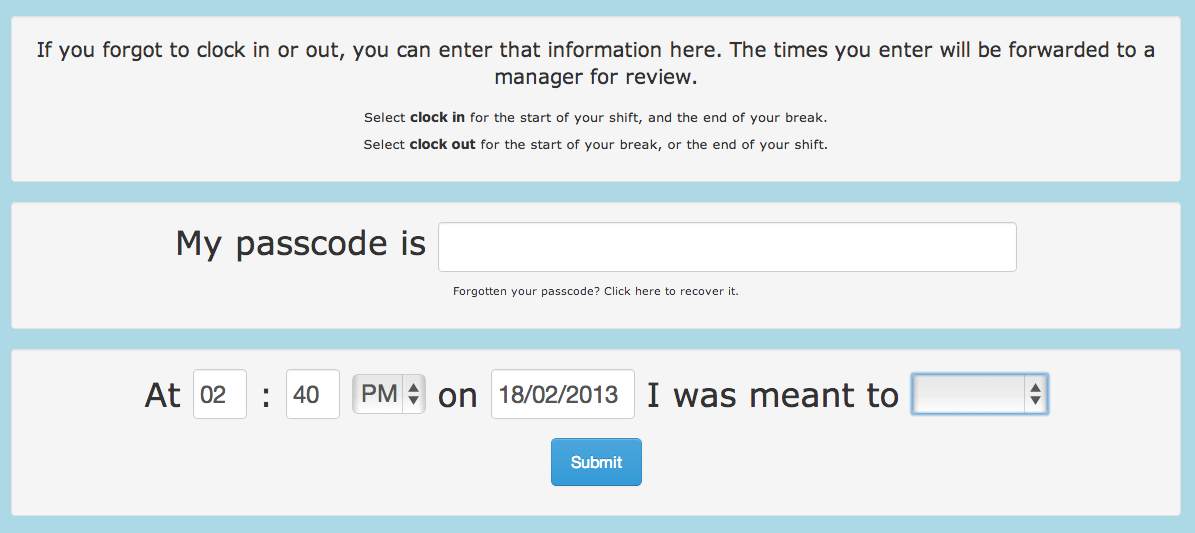
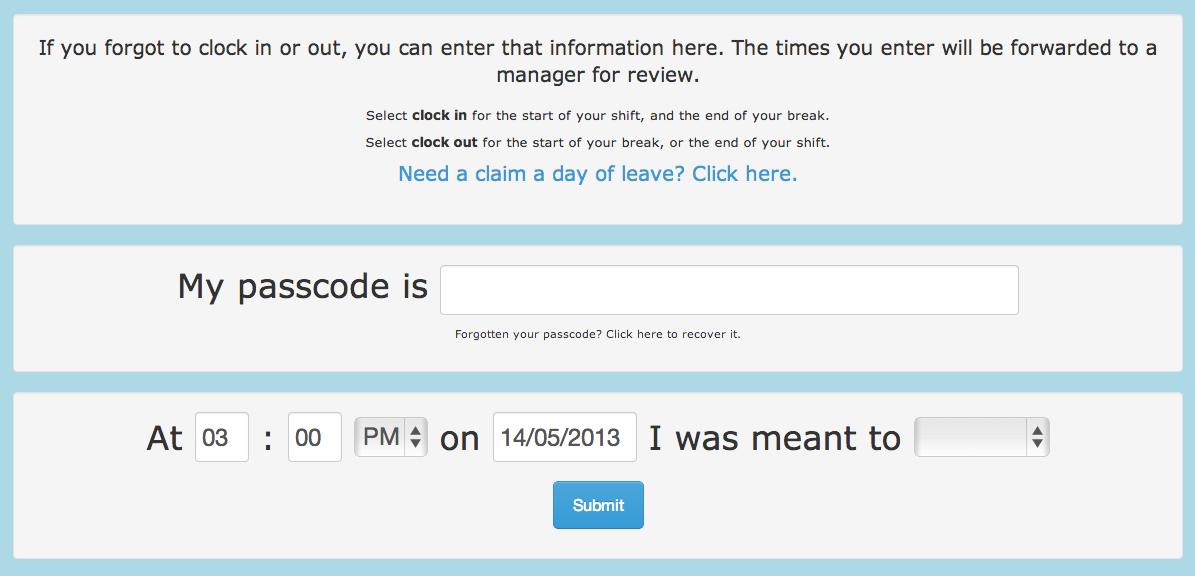
tracking staff leave

diff --git a/_posts/portals/2013-06-10-leave.md b/_posts/portals/2013-06-10-leave.md
@@ -1,0 +1,28 @@
+---
+layout: guide
+title: I Was Sick, What Do I Do?
+categories: ['portals']
+sort: 3
+alias: /leave
+---
+
+Couldn't make it to work? You'll want the sick leave to be recorded on your timesheet so your manager is away of it. Tracking your leave with PayAus is easy. To start, go to the [employee portal](../employee/):
+
+![The web portal](/img/portals/web_portal.png)
+
+Click the big link to *claim a day of leave*. You'll be redirected to the leave portal, which looks similar:
+
+![The leave portal](/img/portals/leave_portal.png)
+
+Enter in your passcode, the date, and the reason you couldn't make it to work. Click *Request Leave* and the portal will add this information to your timesheet automatically. Easy!
+
+The leave portal is hidden behind a randomly generated URL, which means you'll need to get a link to it so you can actually use it. You can get this link from anyone who is able to log in to [www.payaus.com](http://www.payaus.com). Once they (or you, if you are able to log in) are logged in to [payaus.com](http://www.payaus.com), go to the menu in the top right hand corner. You should see a link to the **Employee Clock-in Portal**. From that link, you can navigate to the leave portal.
+
+![The web portal in the site navigation](/img/portals/portal_nav.png)
+
+You may want to add the portal to your bookmarks in case you need to visit it again. How? That depends on your web browser, but these guides should help:
+
+* [Google Chrome](http://support.google.com/chrome/bin/answer.py?hl=en&answer=95739)
+* [Mozilla Firefox](http://support.mozilla.org/en-US/kb/use-bookmarks-to-save-and-organize-websites#w_how-do-i-create-a-bookmark)
+* [Internet Explorer](http://windows.microsoft.com/en-AU/internet-explorer/add-view-organize-favorites#ie=ie-10)
+* [Safari (on a Mac)](http://www.apple.com/findouthow/mac/#bookmark)

diff --git a/_posts/timesheets/2013-06-12-leave.md b/_posts/timesheets/2013-06-12-leave.md
@@ -1,0 +1,19 @@
+---
+layout: guide
+title: Tracking Staff Leave
+categories: ['timesheets']
+sort: 6
+---
+
+PayAus makes recording staff leave simple. Staff are able to record leave by entering the dates they weren't at work into the [online leave portal](../../portals/leave). That portal is availble anywhere with an internet connection, so your staff can use it from home, once they have the link.
+
+When staff request leave for a date, the corresponding shift will be highlighted in [red](../colours/) on their timesheet. In the timesheet below, the employee took Monday off, but was at work on Tuesday:
+
+![A timesheet with one day of leave requested](/img/timesheets/leave_requested.png)
+
+When an employee requests leave, they are required to provide a reason. This reason is added as a [comment](../../notifications/comments/) on their timesheet. You can click the comments icon to see the reason that was entered.
+
+![A timesheet with a comment](/img/notifications/comments_icon_timesheet.png)
+![Leave request comment](/img/notifications/leave_request_comment.png)
+
+You can leave other comments on the timesheet as usual. Notifications for comments you make will **not** be sent to the employee who requested leave (unless they happen to be a manager), as regular [employees](../../staff/team/#roles) are not able to see comments. Thus, if you need to discuss an employee's leave request, you should contact them directly.

diff --git a/_posts/timesheets/2013-06-12-colour.md b/_posts/timesheets/2013-06-12-colour.md
@@ -1,0 +1,28 @@
+---
+layout: guide
+title: Colour Coded Timesheets
+categories: ['timesheets']
+sort: 7
+---
+
+Different parts of your timesheet may appear in different colours. Learn more about what these colours mean.
+
+### Green rows (shifts)
+
+This indicates that this shift has been [approved](../approving-rejecting-deleting/). See the [guide](../approving-rejecting-deleting/) for more information.
+
+### Red rows (shifts)
+
+This indicates that the employee has requested leave for this shift.
+
+### Pink boxes (actions)
+
+Pink boxes indicate times that are [not verified](../../timesheets/verified-times/). They were entered via an [online portal](../../portals/employee/), so PayAus has no way of knowing if they are accurate. You can correct them, or mark them as verified (or both!). [Click here](../../timesheets/verified-times/) for more information.
+
+### Yellow boxes (actions)
+
+Yellow boxes indicate a shift that goes [overnight](../../timesheets/individual/#overnight). You can mark a shift as overnight by entering "AM" into the box while entering or editing a time. [Click here](../../timesheets/individual/#overnight) for more information.
+
+### Orange boxes (actions)
+
+Orange boxes indicate that the length of this shift's break was [overriden](../../timesheets/individual/#overriden) by a manager, or an automatic rule. [Click here](../../timesheets/individual/#overriden) for more information.

diff --git a/_posts/2013-05-01-faq.md b/_posts/2013-05-01-faq.md
@@ -40,17 +40,9 @@ If you've just forgotten your passcode, you can get it emailed to you by followi
 
 ### Help! My timesheet looks weird!
 
-#### Why are there pink boxes on my timesheet?
+#### What do the colours on my timesheet mean?
 
-Pink boxes indicate times that are [not verified](../../timesheets/verified-times/). They were entered via an [online portal](../../portals/employee/), so PayAus has no way of knowing if they are accurate. You can correct them, or mark them as verified (or both!). [Click here](../../timesheets/verified-times/) for more information.
-
-#### Why are there yellow boxes on my timesheet?
-
-Yellow boxes indicate a shift that goes [overnight](../../timesheets/individual/#overnight). You can mark a shift as overnight by entering "AM" into the box while entering or editing a time. [Click here](../../timesheets/individual/#overnight) for more information.
-
-#### Why are there orange boxes on my timesheet?
-
-Orange boxes indicate that the length of this shift's break was [overriden](../../timesheets/individual/#overriden) by a manager, or an automatic rule. [Click here](../../timesheets/individual/#overriden) for more information.
+[Check out the user guide on this.](../../timesheets/colour/)
 
 #### Why can't I edit some of the boxes on my timesheet?
 

diff --git a/_posts/timesheets/2013-02-06-verified-times.md b/_posts/timesheets/2013-02-06-verified-times.md
@@ -11,7 +11,7 @@ Some of these methods are *verifiable*, meaning the time entered can be verified
 
 Methods that are **not** verifiable are those in which the employee is able to enter a time for an action, such as clocking in or clocking out. These are considered not verifiable because your employee *could* enter the time incorrectly &mdash; mistakenly, or milaciously &mdash; and PayAus would not be able to verify it automatically.
 
-Unverified times are highlighted in bold in a staff member's [clock-in stream](../../staff/streams/). They also show up on a [timesheet](../intro/) in pink. When you click on an unverified time, you are able to mark it is verified by clicking on the <i class="icon-ok"> </i> tick icon, then the [**Update** button](../individual/#buttons).
+Unverified times are highlighted in bold in a staff member's [clock-in stream](../../staff/streams/). They also show up on a [timesheet](../intro/) in [pink](../colours/). When you click on an unverified time, you are able to mark it is verified by clicking on the <i class="icon-ok"> </i> tick icon, then the [**Update** button](../individual/#buttons).
 
 ![Verifying an individual time](/img/timesheets/verify_time.png)
 

diff --git a/_posts/timesheets/2013-02-09-exports.md b/_posts/timesheets/2013-02-09-exports.md
@@ -2,7 +2,7 @@
 layout: guide
 title: Exporting Data for Payroll
 categories: ['timesheets']
-sort: 5
+sort: 7
 ---
 
 PayAus allows you to export timesheets into data files which can be read by a variety of accounting, HR, and payroll packages. This allows you to easily import your timesheet data and pay your staff much more quickly. You can export timesheets from the *Export to...* menu on the [timesheets](../intro/) page. Be aware that only [**approved**](../approving-rejecting-deleting/) timesheets will be exported. [Learn more about PayAus timesheets...](../intro/)

diff --git a/_posts/timesheets/2013-05-04-reminding.md b/_posts/timesheets/2013-05-04-reminding.md
@@ -2,7 +2,7 @@
 layout: guide
 title: Reminding Your Staff to Enter Timesheets
 categories: ['timesheets']
-sort: 6
+sort: 8
 ---
 
 Sometimes staff will forget to clock in or out of PayAus via a [hardware terminal](../../portals/). Sometimes they'll even forget to fix this using the [online portal](../../forgot/). When this happens, PayAus can help you remind them to complete their timesheets. You can automatically remind your staff to fill out a timesheet by email or SMS.

diff --git a/_posts/timesheets/2013-02-12-rosters.md b/_posts/timesheets/2013-02-12-rosters.md
@@ -2,7 +2,7 @@
 layout: guide
 title: Syncing Timesheets with Rosters
 categories: ['timesheets']
-sort: 7
+sort: 9
 ---
 
 You can copy the times on a timesheet to future rosters. This can save you lots of time, especially if your staff work similar hours each week &mdash; while reviewing their timesheets, you could *also* be writing their rosters!
